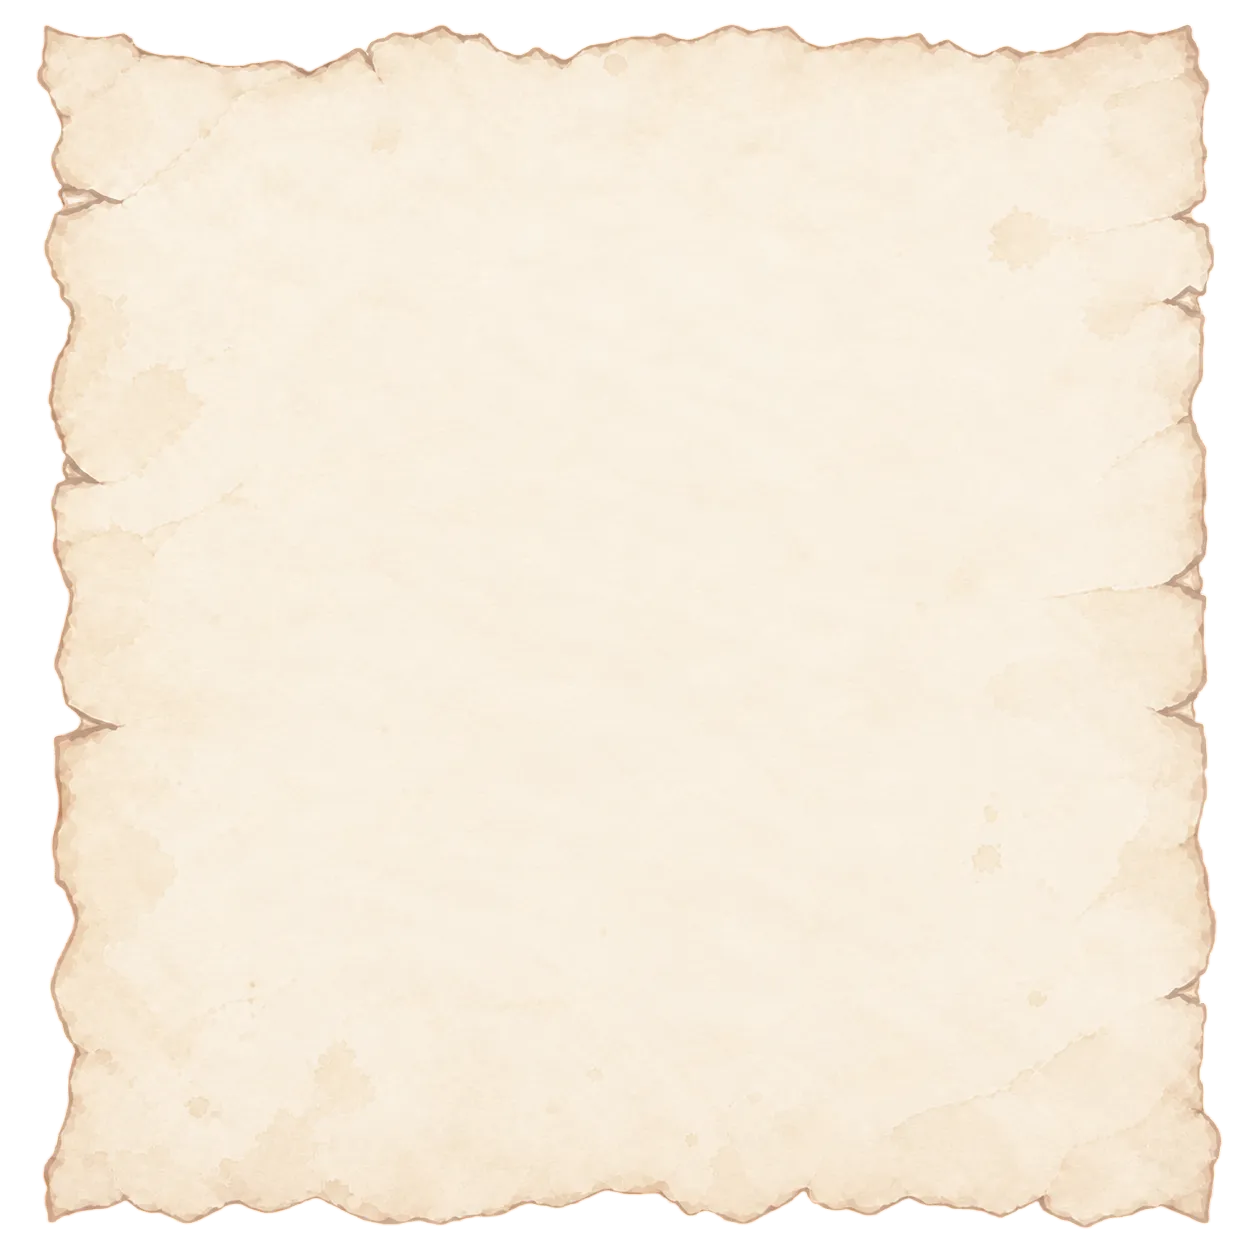
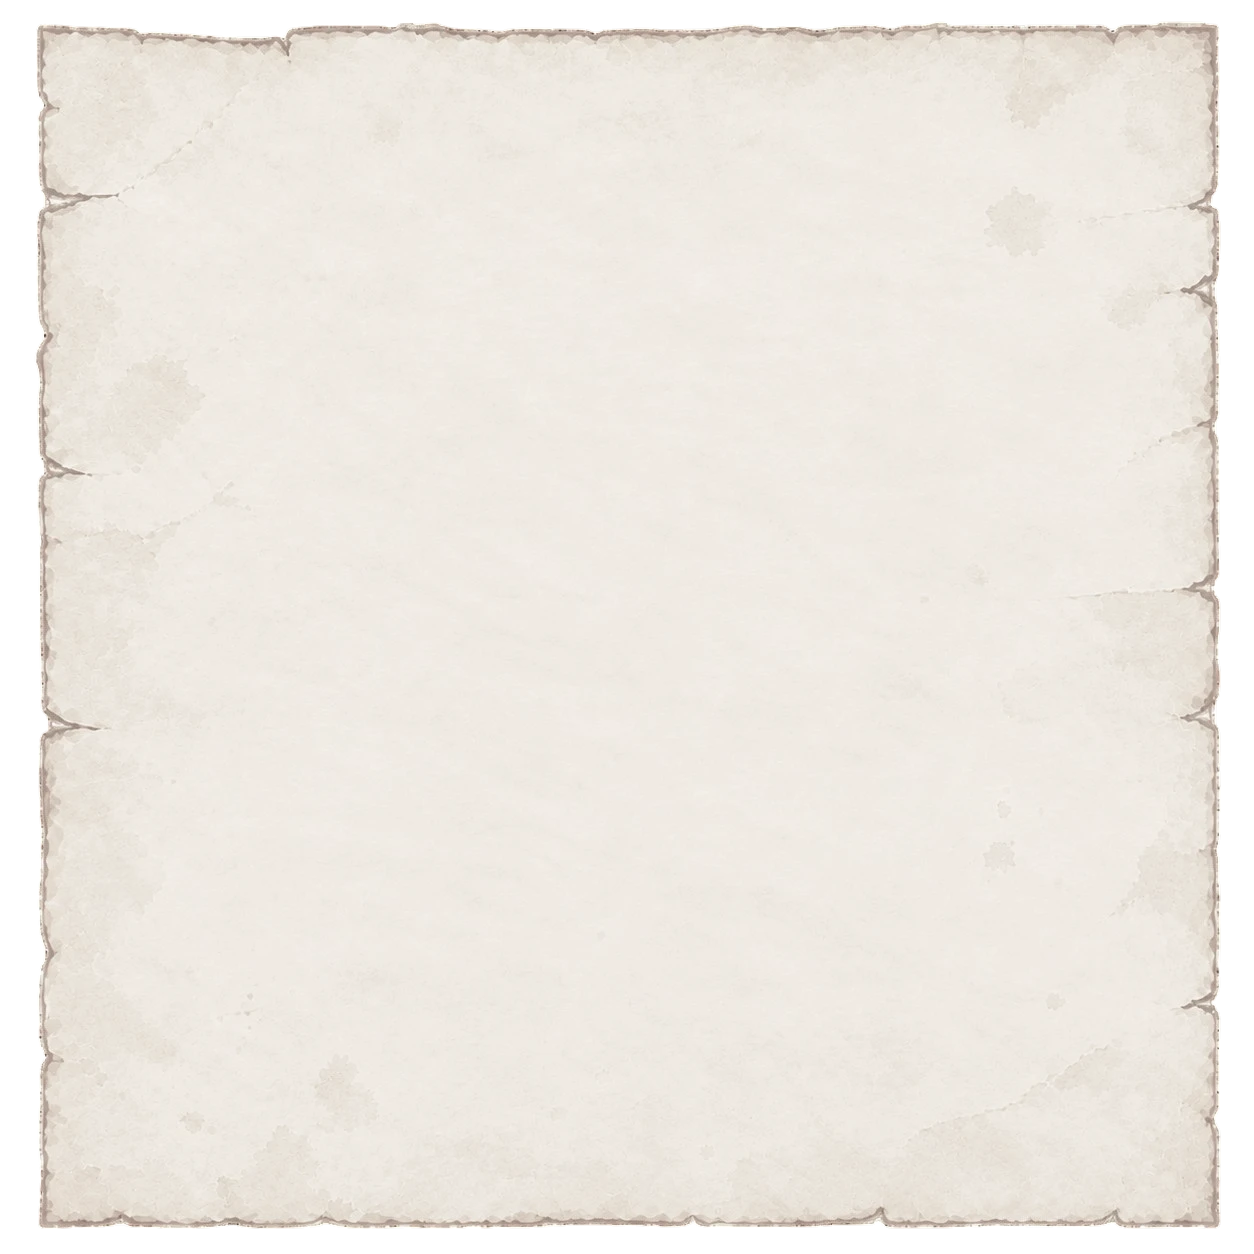
Add files via upload

Changed region(s): [[0.0311, 0.0, 0.9952, 0.9952]]

diff --git a/index.html b/index.html
@@ -2290,6 +2290,42 @@
         /* ========================================================
            📜 지문 순차 돌파 퀘스트 전용 하이라이트 스타일
            ======================================================== */
+
+        /* 📜 [지문 독해 뷰어] 실제 양피지 고문서 스킨 클래스 */
+        .passage-frame-container {
+            display: none;
+            flex: 1;
+            position: relative;
+            width: calc(100% + 28px);
+            left: 50%;    
+            transform: translateX(-50%); /* 🌟 정확히 좌우 대칭으로 50%씩 분할 확장 */
+            min-height: 200px;
+            max-height: 320px;
+            background: url('images/parchment1.webp') no-repeat center !important;
+            background-size: 100% 100% !important;
+            border-radius: 12px;
+            box-shadow: 0 6px 18px rgba(0,0,0,0.35);
+            margin-bottom: 6px;
+            box-sizing: border-box;
+        }
+
+        /* 📜 2. 그 안의 순수한 텍스트 전용 레터박스 (오직 여기서만 스크롤 발생) */
+        .passage-letterbox {
+            position: absolute;
+            top: 20px;    /* 양피지 액자 상단 테두리를 피함 */
+            bottom: 20px; /* 양피지 액자 하단 테두리를 피함 */
+            left: 25px;   /* 양피지 액자 좌측 테두리를 피함 */
+            right: 25px;  /* 양피지 액자 우측 테두리를 피함 */
+            overflow-y: auto;
+            text-align: left;
+            font-size: 14.5px;
+            font-weight: 600;
+            line-height: 1.75;
+            color: #2c1a0e;
+            word-break: keep-all;
+            box-sizing: border-box;
+        }
+
         .passage-token {
             display: inline-block;
             padding: 1px 3px;
@@ -3848,26 +3884,9 @@
             </div>
             </div>
 
-            <!-- 📜 [NEW] 지문 퀘스트 전용 양피지 스크롤 뷰어 박스 (평소엔 숨김) -->
-            <div id="passageViewerBox" class="scroll-fade-bottom" style="
-                display:none; 
-                flex:1; 
-                min-height:160px; 
-                max-height:220px; 
-                background:rgba(253, 250, 242, 0.85); 
-                border:1.5px solid #c9b48c; 
-                border-radius:12px; 
-                padding:10px 14px; 
-                overflow-y:auto; 
-                text-align:left; 
-                /* font-family: Georgia, 'Times New Roman', serif; */
-                font-size:14.5px; 
-                font-weight:500;
-                line-height:1.75; 
-                color:#2c1a0e; 
-                word-break:keep-all; 
-                box-shadow:inset 0 0 10px rgba(181,148,97,0.18); 
-                margin-bottom:6px;">
+            <!-- 📜 [NEW] 양피지 액자 + 내부 레터박스 2중 분리 구조 -->
+            <div id="passageViewerBox" class="scroll-fade-bottom passage-frame-container">
+                <div class="passage-letterbox"></div>
             </div>
 
             <div class="battle-arena-box">
@@ -9484,7 +9503,7 @@ const recTime = document.getElementById("recFastestTime");
         const viewerBox = document.getElementById("passageViewerBox");
         if (viewerBox) {
             viewerBox.style.display = "none";
-            viewerBox.innerHTML = "";
+            viewerBox.querySelector(".passage-letterbox").innerHTML = "";
         }
 
         // 4. 피드백 모달 강제 닫기
@@ -9587,7 +9606,7 @@ const recTime = document.getElementById("recFastestTime");
                 }
                 return displayStr;
             });
-            viewerBox.innerHTML = html.replace(/\n/g, '<br>');
+            viewerBox.querySelector(".passage-letterbox").innerHTML = html.replace(/\n/g, '<br>');
 
             // 현재 문제 단어가 지문 중간에 있어도 보이도록 자동 부드러운 스크롤!
             requestAnimationFrame(() => {

diff --git a/words.js b/words.js
@@ -18,13 +18,13 @@ const GAME_CONFIG = {
 
     guardianHpRepeat: 7,       // 2회차 수호령 체력 (기본: 7)
     guardianTimeRepeat: 5.0,   // 2회차 수호령 시간 (기본: 5.0초)
-    guardianPlayerHpRepeat: 3, // 👈 2회차 수호령전 플레이어 하트 수 (기본: 3개)
+    guardianPlayerHpRepeat: 2, // 👈 2회차 수호령전 플레이어 하트 수 (기본: 3개)
 
     // 👑 [마왕전 체력 & 시간 & 플레이어 목숨]
-    bossHp1: 15,               // 1회차 마왕 체력 (기본: 10)
+    bossHp1: 20,               // 1회차 마왕 체력 (기본: 10)
     bossTime1: 4.0,            // 1회차 마왕 시간 (기본: 5.0초)
 
-    bossHpRepeat: 15,          // 2회차 마왕 체력 (기본: 12)
+    bossHpRepeat: 20,          // 2회차 마왕 체력 (기본: 12)
     bossTimeRepeat: 3.0,       // 2회차 마왕 시간 (기본: 4.0초)
     bossPlayerHpRepeat: 2,     // 👈 2회차 마왕전 플레이어 하트 수 (기본: 3개)
 
@@ -89,8 +89,6 @@ There are some things that would be difficult to do with your [[injured | injure
 For example, you might not be able to carry heavy boxes or ride your bike. 
 What about [[accessing | access: [동] (컴퓨터로) ~에 접속하다]] the Internet? 
 If you are [[right-handed | right-handed: [형] 오른손잡이인]], using a computer mouse or touchscreen with your left hand would be [[awkward | awkward: [형] (동작∙행동 등이) 어색한]] and [[take a lot of time | take time: [동] 시간이 걸리다, 시간을 가지다]].
-
-=== 7. 마무리 ===
 The [[accessibility | accessibility: [명] 접근성, 이용성]] [[features | feature: [명] 특징, 특성]] of websites don’t just help people with [[disabilities | disability: [명] 장애, 불능]]. 
 They can make online experiences easier for everyone, [[regardless of | regardless of ~: [전] ~에 상관없이]] abilities or situations. 
 When websites are easy to navigate and understand, we can all [[benefit | benefit: [명] 이득, 이익; [동] 이익이 되다; [동] (from) 이익을 얻다]] from a more [[inclusive | inclusive: [형] 차별 없는, 포용적인]] online experience.
